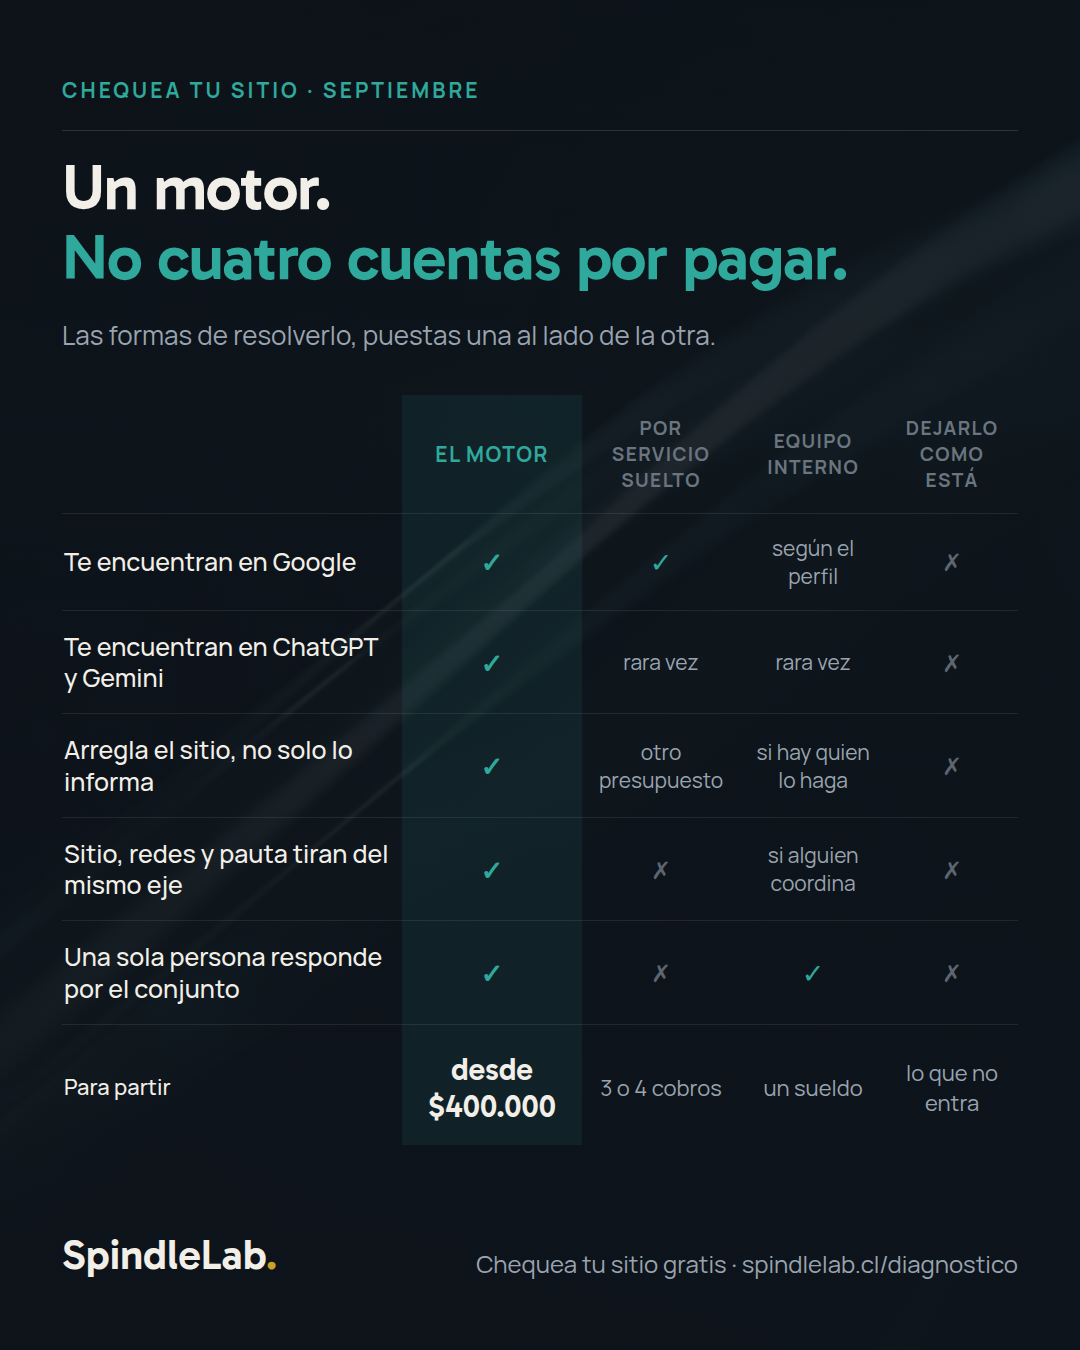
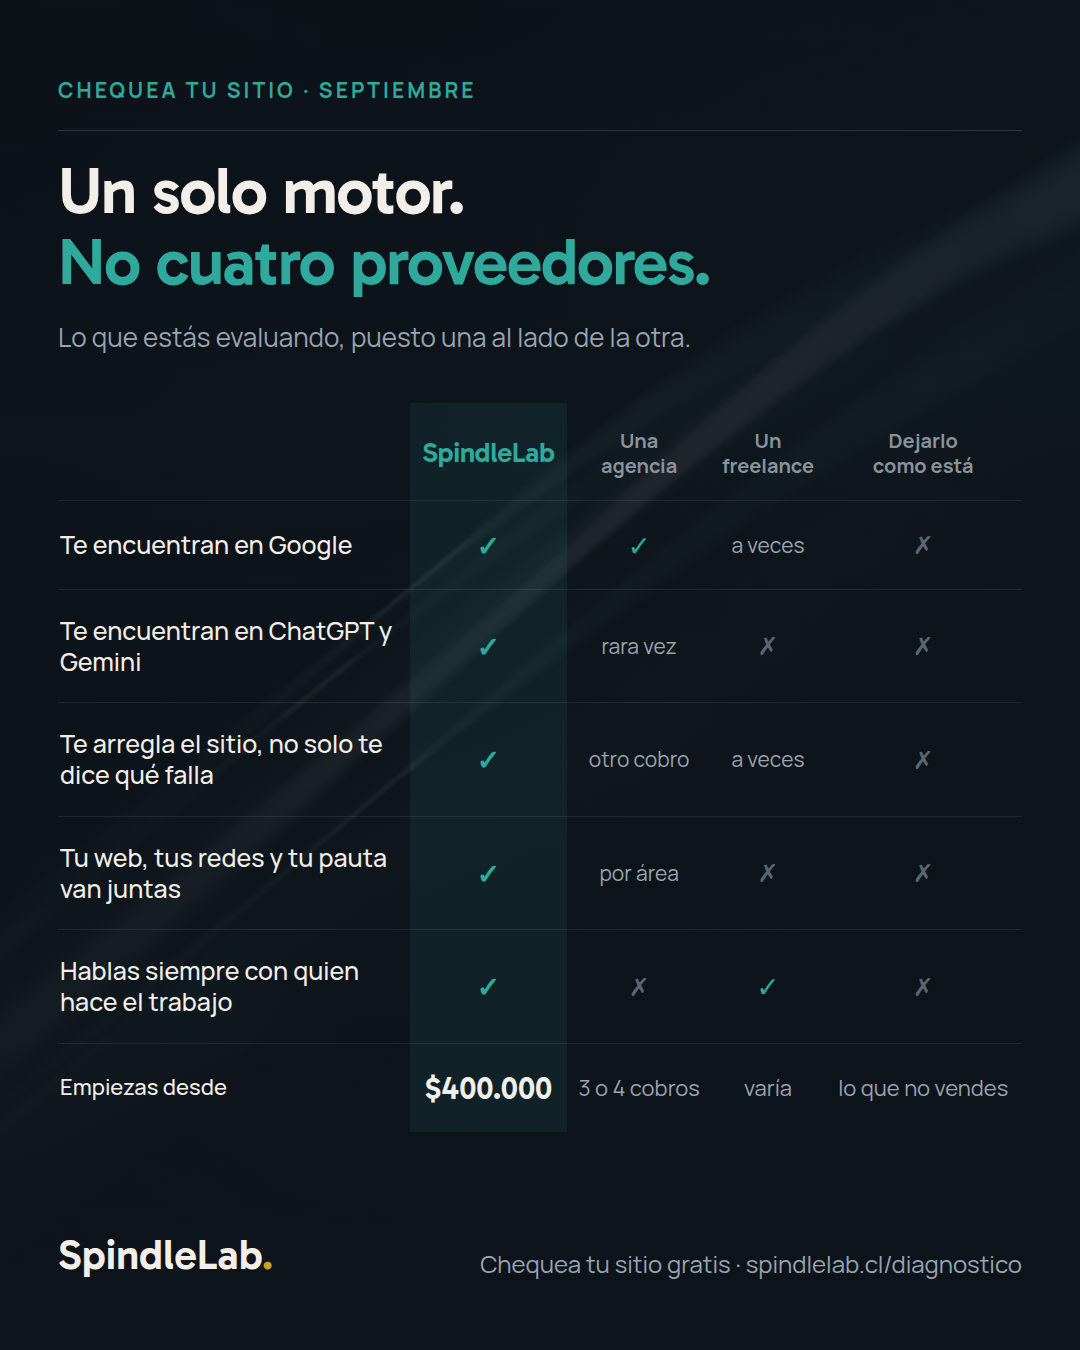
Comparativa IG v2: columnas en lenguaje de la calle (correccion de Ramon)
'Por servicio suelto' y 'equipo interno' eran lenguaje de consultor; en Instagram lo
ve cualquiera. Columnas nuevas: SpindleLab / Una agencia / Un freelance / Dejarlo como
esta. Filas reescritas en segunda persona y en terminos de lo que el dueno gana.
Sigue sin nombrarse ninguna marca: son categorias, no empresas.

Detalle de marca: 'SpindleLab' como encabezado de columna va en Gabarito petroleo sin
punto (es el nombre como texto, no el wordmark); el wordmark firma abajo con su punto
dorado, unico dorado de la pieza.

Sigue pendiente de validacion: el texto de las celdas es mio solo para mostrar la
pieza, y 'rara vez' en la fila de ChatGPT/Gemini no tiene dato detras.

Claude-Session: https://claude.ai/code/session_01WYNH8WPLpujcpumHdUd1oU

diff --git a/marketing/redes/2026-09-septiembre/_reserva/ig-comparativa-01sep/comparativa.html b/marketing/redes/2026-09-septiembre/_reserva/ig-comparativa-01sep/comparativa.html
@@ -1,26 +1,28 @@
 <!DOCTYPE html><html><head><meta charset="utf-8"><link rel="stylesheet" href="base.css">
 <style>
-/* IG feed 4:5 (1080x1350) — tabla comparativa.
-   REGLA RESPETADA: no se nombra ni una sola marca de la competencia
-   (reposicionamiento-redes.md:13 "contraste honesto, sin nombrar cuentas ni competidores").
-   Se comparan FORMAS DE CONTRATAR, no empresas. Ninguna celda afirma nada que no
-   se sostenga estructuralmente; donde no hay dato, dice lo que de verdad pasa. */
+/* IG feed 4:5 (1080x1350) — comparativa v2.
+   Columnas en lenguaje de la calle (pedido de Ramon: "en Instagram todos lo tienen que
+   entender"). NO se nombra ninguna marca de la competencia: "una agencia" y "un
+   freelance" son categorias, no empresas (regla reposicionamiento-redes.md:13).
+   NOTA DE MARCA: "SpindleLab" como encabezado de columna va en Gabarito petroleo SIN
+   punto: es el nombre usado como texto, no el wordmark (el wordmark firma abajo, con
+   su punto dorado, que sigue siendo el unico dorado de la pieza). */
 html,body { width:1080px; height:1350px; }
-.post { width:1080px; height:1350px; padding:76px 62px 70px; display:flex; flex-direction:column; color:#f2efe8;
+.post { width:1080px; height:1350px; padding:76px 58px 70px; display:flex; flex-direction:column; color:#f2efe8;
   background:linear-gradient(rgba(14,20,27,0.90), rgba(14,20,27,0.97)), url('fondo-hilo.jpg') center/cover, #0e141b; }
-.h2 { font-family:'Gabarito'; font-weight:600; font-size:64px; line-height:1.1; letter-spacing:-1.2px; margin-top:22px; }
+.h2 { font-family:'Gabarito'; font-weight:600; font-size:66px; line-height:1.08; letter-spacing:-1.4px; margin-top:24px; }
 .h2 em { font-style:normal; color:#2fa99b; }
-.baja { font-size:26px; line-height:1.5; color:#9aa4b0; margin-top:22px; max-width:900px; }
-table { width:100%; border-collapse:collapse; margin-top:40px; }
-th,td { padding:20px 8px; text-align:center; font-size:21px; color:#9aa4b0; vertical-align:middle;
+.baja { font-size:26px; line-height:1.5; color:#9aa4b0; margin-top:20px; max-width:900px; }
+table { width:100%; border-collapse:collapse; margin-top:46px; }
+th,td { padding:25px 6px; text-align:center; font-size:21px; color:#9aa4b0; vertical-align:middle;
   border-bottom:1px solid rgba(247,245,240,0.09); }
-th { font-size:19px; font-weight:700; letter-spacing:1.4px; text-transform:uppercase; color:#6b7580; padding-bottom:20px; }
-td.q, th.q { text-align:left; font-size:25px; color:#f2efe8; font-weight:500; width:340px; padding-left:2px; line-height:1.25; }
+th { font-size:20px; font-weight:700; color:#8a939d; padding-bottom:22px; line-height:1.25; }
+td.q, th.q { text-align:left; font-size:25px; color:#f2efe8; font-weight:500; width:352px; padding-left:2px; line-height:1.25; }
 .col-1 { background:rgba(47,169,155,0.10); }
-th.col-1 { color:#2fa99b; font-size:21px; }
-td.col-1 { color:#f2efe8; font-weight:600; font-size:25px; }
-.si { color:#2fa99b; font-size:27px; }
-.no { color:#5c6570; font-size:24px; }
+th.col-1 { font-family:'Gabarito'; font-weight:600; font-size:28px; color:#2fa99b; letter-spacing:-0.4px; }
+td.col-1 { color:#f2efe8; font-weight:600; }
+.si { color:#2fa99b; font-size:28px; }
+.no { color:#5c6570; font-size:25px; }
 tr.precio td { border-bottom:none; padding-top:26px; font-size:22px; }
 tr.precio td.col-1 { font-family:'Gabarito'; font-weight:600; font-size:31px; color:#f2efe8; }
 .pie { margin-top:auto; display:flex; align-items:flex-end; justify-content:space-between; }
@@ -28,46 +30,46 @@ tr.precio td.col-1 { font-family:'Gabarito'; font-weight:600; font-size:31px; co
 <div class="post">
   <div class="eyebrow">Chequea tu sitio · Septiembre</div>
   <div class="rule"></div>
-  <div class="h2">Un motor.<br><em>No cuatro cuentas por pagar.</em></div>
-  <div class="baja">Las formas de resolverlo, puestas una al lado de la otra.</div>
+  <div class="h2">Un solo motor.<br><em>No cuatro proveedores.</em></div>
+  <div class="baja">Lo que estás evaluando, puesto una al lado de la otra.</div>
 
   <table>
     <tr>
       <th class="q"></th>
-      <th class="col-1">El motor</th>
-      <th>Por servicio<br>suelto</th>
-      <th>Equipo<br>interno</th>
+      <th class="col-1">SpindleLab</th>
+      <th>Una<br>agencia</th>
+      <th>Un<br>freelance</th>
       <th>Dejarlo<br>como está</th>
     </tr>
     <tr>
       <td class="q">Te encuentran en Google</td>
       <td class="col-1"><span class="si">✓</span></td><td><span class="si">✓</span></td>
-      <td>según el perfil</td><td><span class="no">✗</span></td>
+      <td>a veces</td><td><span class="no">✗</span></td>
     </tr>
     <tr>
       <td class="q">Te encuentran en ChatGPT y Gemini</td>
       <td class="col-1"><span class="si">✓</span></td><td>rara vez</td>
-      <td>rara vez</td><td><span class="no">✗</span></td>
+      <td><span class="no">✗</span></td><td><span class="no">✗</span></td>
     </tr>
     <tr>
-      <td class="q">Arregla el sitio, no solo lo informa</td>
-      <td class="col-1"><span class="si">✓</span></td><td>otro presupuesto</td>
-      <td>si hay quien lo haga</td><td><span class="no">✗</span></td>
+      <td class="q">Te arregla el sitio, no solo te dice qué falla</td>
+      <td class="col-1"><span class="si">✓</span></td><td>otro cobro</td>
+      <td>a veces</td><td><span class="no">✗</span></td>
     </tr>
     <tr>
-      <td class="q">Sitio, redes y pauta tiran del mismo eje</td>
-      <td class="col-1"><span class="si">✓</span></td><td><span class="no">✗</span></td>
-      <td>si alguien coordina</td><td><span class="no">✗</span></td>
+      <td class="q">Tu web, tus redes y tu pauta van juntas</td>
+      <td class="col-1"><span class="si">✓</span></td><td>por área</td>
+      <td><span class="no">✗</span></td><td><span class="no">✗</span></td>
     </tr>
     <tr>
-      <td class="q">Una sola persona responde por el conjunto</td>
+      <td class="q">Hablas siempre con quien hace el trabajo</td>
       <td class="col-1"><span class="si">✓</span></td><td><span class="no">✗</span></td>
       <td><span class="si">✓</span></td><td><span class="no">✗</span></td>
     </tr>
     <tr class="precio">
-      <td class="q">Para partir</td>
-      <td class="col-1">desde $400.000</td>
-      <td>3 o 4 cobros</td><td>un sueldo</td><td>lo que no entra</td>
+      <td class="q">Empiezas desde</td>
+      <td class="col-1">$400.000</td>
+      <td>3 o 4 cobros</td><td>varía</td><td>lo que no vendes</td>
     </tr>
   </table>
 

diff --git a/marketing/redes/2026-09-septiembre/_reserva/ig-comparativa-01sep/NOTA.md b/marketing/redes/2026-09-septiembre/_reserva/ig-comparativa-01sep/NOTA.md
@@ -11,17 +11,28 @@ nombrar cuentas ni competidores"**. Además no tenemos datos verificables de las
 chilenas: sus columnas saldrían inventadas, y eso choca con la regla de cero prueba social
 inventada.
 
-**Lo que sí se puede:** comparar **formas de contratar**, no empresas. Y para este negocio
-es más defendible: SpindleLab no reemplaza herramientas nombrables, reemplaza la
-fragmentación. Columnas: el motor · por servicio suelto · equipo interno · dejarlo como está.
+**Lo que sí se puede:** comparar **categorías**, no empresas.
+
+**v2 (1-sep, corrección de Ramón):** las columnas de la v1 —"por servicio suelto",
+"equipo interno"— eran lenguaje de consultor. En Instagram lo ve cualquiera y tiene que
+entenderse sin pensar. Columnas nuevas, en lenguaje de la calle:
+**SpindleLab · Una agencia · Un freelance · Dejarlo como está.**
+Ramón mismo descartó nombrar marcas ("un nombre muy arriesgado"); "una agencia" y "un
+freelance" son categorías, no empresas.
+
+**Detalle de marca:** "SpindleLab" como encabezado de columna va en Gabarito petróleo
+**sin punto** — es el nombre usado como texto, no el wordmark. El wordmark firma abajo con
+su punto dorado, que sigue siendo el único dorado de la pieza.
 
 ## ⚠ Lo que hay que validar antes de publicar (no es mío)
 
-1. **Cada celda de las otras tres columnas es una afirmación sobre terceros.** Las redacté
-   yo para poder mostrar la pieza; **el copy no es mi rol.** La más discutible es
-   **"rara vez"** en la fila de ChatGPT/Gemini: es una generalización, no un dato. Lo que
-   sí tenemos medido son SITIOS, no agencias (69 corridas del 31-ago: 67 fallan la FAQ
-   citable). Que Cata/Renata la revisen y que Ramón la respalde o la ablande.
+1. **Cada celda de las otras tres columnas es una afirmación sobre terceros.** No nombrar
+   a nadie reduce el riesgo, no lo elimina: decir que "una agencia" falla en algo sigue
+   siendo una afirmación. Las redacté yo para poder mostrar la pieza; **el copy no es mi
+   rol.** La más discutible es **"rara vez"** en la fila de ChatGPT/Gemini: es una
+   generalización, no un dato. Lo que sí tenemos medido son SITIOS, no agencias (69
+   corridas del 31-ago: 67 fallan la FAQ citable). Que Cata/Renata la revisen y que Ramón
+   la respalde o la ablande antes de publicar.
 2. **El `$400.000`** sigue sin cotejarse contra la cartera vigente.
 3. **Cadencia:** hoy 1-sep ya sale el post del dominó en la página de LinkedIn. Esta es
    Instagram. Son canales distintos, pero la cadencia la lleva Marta, no yo.
